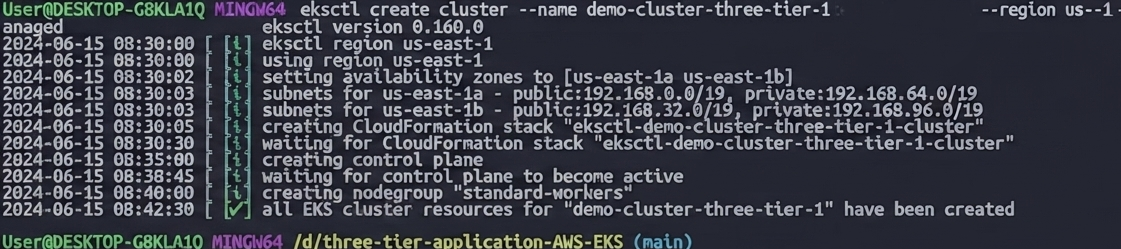
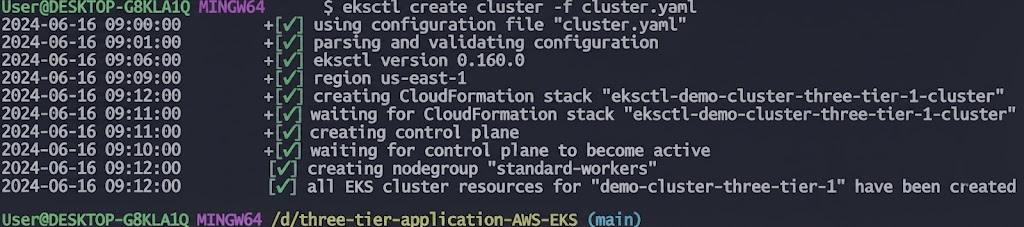
update readme file

diff --git a/README.md b/README.md
@@ -230,12 +230,7 @@ Now that we've tested the application locally, it’s time to deploy it on a ful
 We'll start by creating an EKS cluster using eksctl. This tool simplifies EKS cluster creation and management.
 
 ```bash
-
- eksctl create cluster \
-  --name demo-cluster-three-tier-1 \
-  --region us-east-1
-
-eksctl create cluster --name demo-cluster-three-tier-1 --region us-east-1
+eksctl create cluster -f cluster.yaml
 ```
 
 This command provisions an Amazon EKS cluster named `demo-cluster-three-tier-1` in the `us-east-2` (Ohio) region.